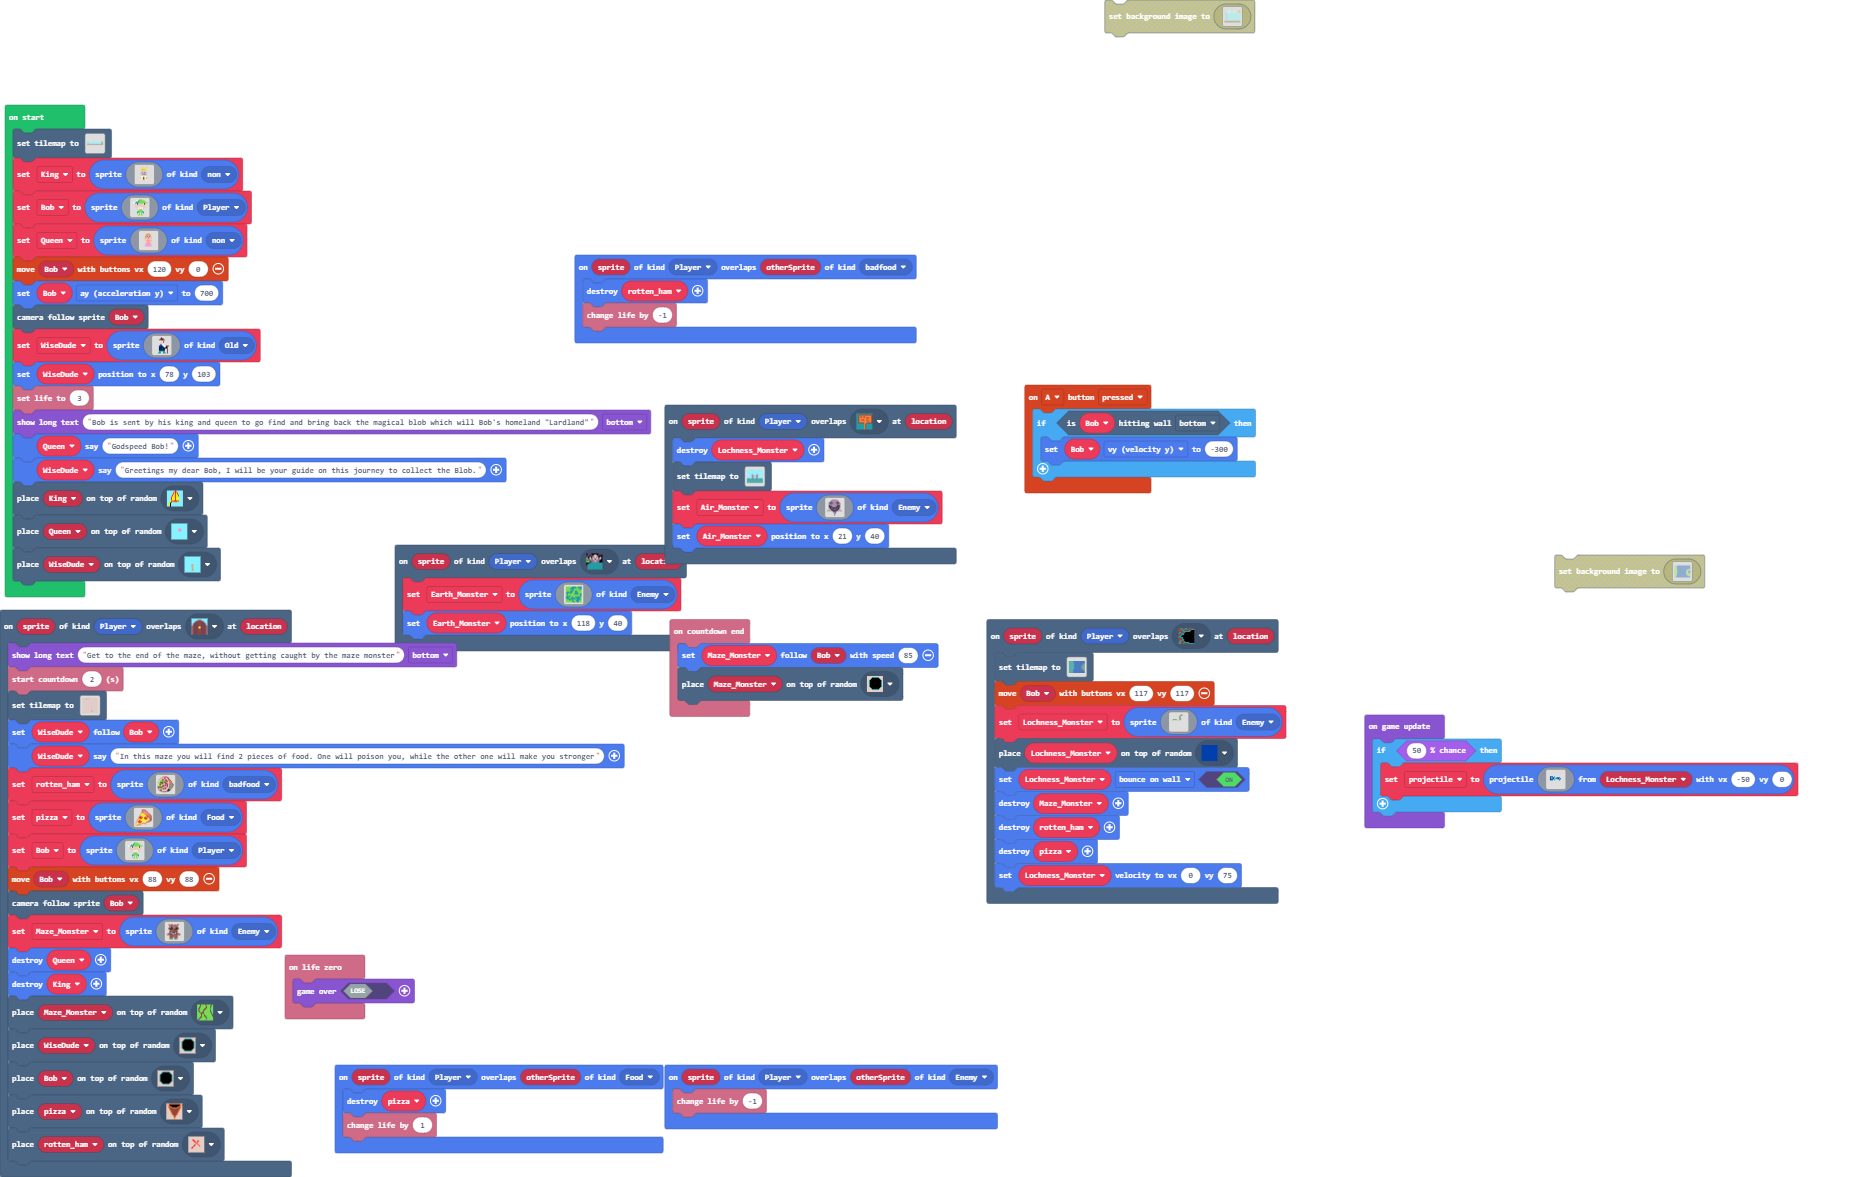
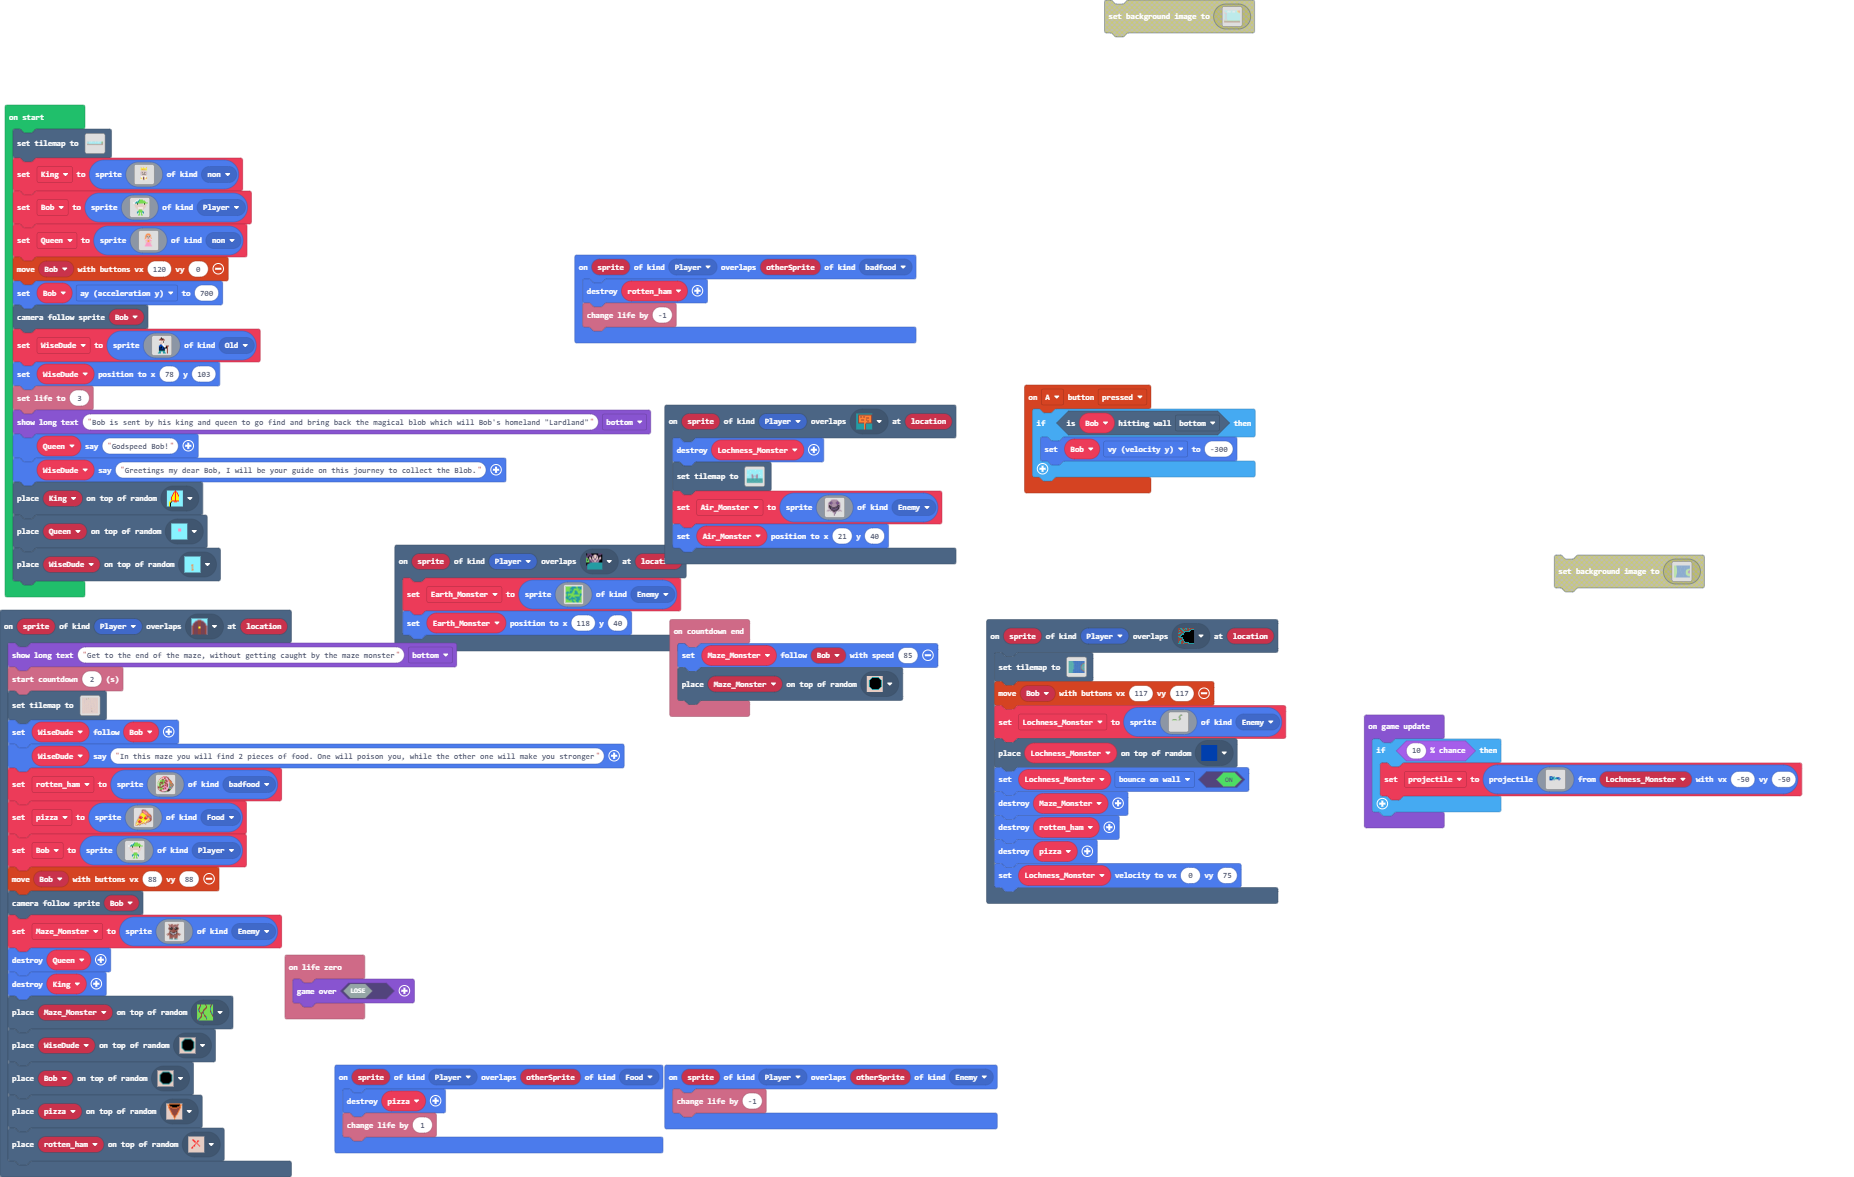
Update main.blocks, main.ts

diff --git a/main.ts b/main.ts
@@ -493,7 +493,7 @@ tiles.placeOnRandomTile(King, myTiles.tile27)
 tiles.placeOnRandomTile(Queen, myTiles.tile28)
 tiles.placeOnRandomTile(WiseDude, myTiles.tile45)
 game.onUpdate(function () {
-    if (Math.percentChance(50)) {
+    if (Math.percentChance(10)) {
         projectile = sprites.createProjectileFromSprite(img`
             . . . . . . . . . . . . . . . . 
             . . . . . . . . . . . . . . . . 
@@ -511,6 +511,6 @@ game.onUpdate(function () {
             . . . . . . . . . . . . . . . . 
             . . . . . . . . . . . . . . . . 
             . . . . . . . . . . . . . . . . 
-            `, Lochness_Monster, -50, 0)
+            `, Lochness_Monster, -50, -50)
     }
 })
